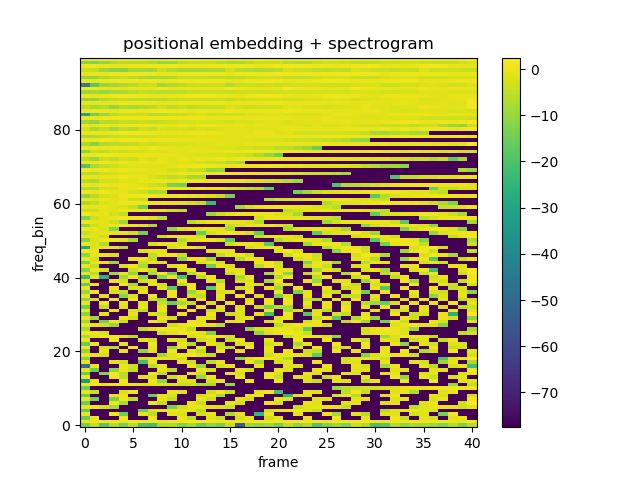
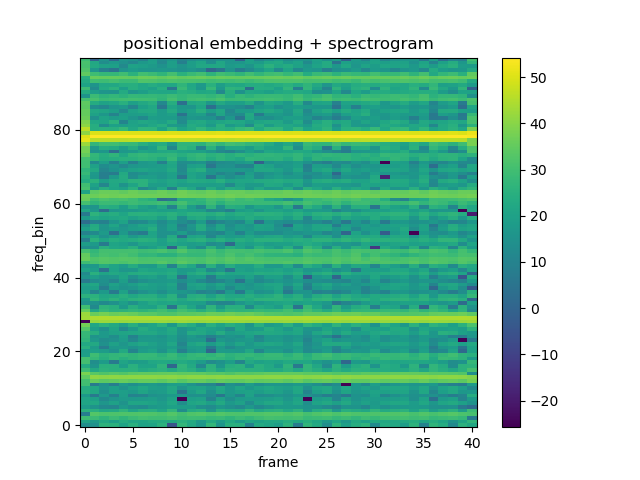
update

diff --git a/“audio_transformer_reconstruction”的副本.py b/“audio_transformer_reconstruction”的副本.py
@@ -10,32 +10,27 @@ Original file is located at
 # ! pip install git+https://github.com/openai/whisper.git
 # ! pip install jiwer
 
-from locale import normalize
-import os
-import numpy as np
-import torch.nn.functional as F
 try:
     import tensorflow  # required in Colab to avoid protobuf compatibility issues
 except ImportError:
     pass
 
-import torch
-import pandas as pd
-import whisper
-
-import torchaudio
-DEVICE = torch.device('cuda' if torch.cuda.is_available() else 'cpu')
-
-from tqdm.notebook import tqdm
-
-from operator import ne
-import torch
-import matplotlib.pyplot as plt
 import torchaudio
 import librosa
 import matplotlib.pyplot as plt
-import gc
 import math
+from dataclasses import dataclass
+from typing import Dict
+from typing import Iterable, Optional
+import numpy as np
+import torch
+import torch.nn.functional as F
+from torch import Tensor
+from torch import nn
+
+
+DEVICE = torch.device('cuda' if torch.cuda.is_available() else 'cpu')
+
 
 class SignalProducer:
     @staticmethod
@@ -143,7 +138,7 @@ class RandomGeneratedSignals(torch.utils.data.Dataset):
     def __getitem__(self, item):
         audio, spec, frequency_arr = self.dataset.get(item)
         audio = torch.mean(audio.view(-1, 10), axis=1)
-        spec = F.normalize(spec)
+        # spec = F.normalize(spec)
         
         return (spec, audio, frequency_arr)
 
@@ -157,33 +152,7 @@ fig.savefig('./signal_example.png')
 fig = Plot.plot_spectrogram(s[0])
 fig.savefig('./spectrogram_example.png')
 
-s[0].min()
 
-# def sinusoids(length, channels, max_timescale=10000, frequency_magnitude=1000 * 2 * torch.pi):
-#     """Returns sinusoids for positional embedding"""
-#     den = torch.exp(- torch.arange(0, channels, 2)* math.log(max_timescale) / channels)
-#     pos = torch.arange(0, length).reshape(length, 1)
-#     pos_embedding = torch.zeros((length, channels))
-#     pos_embedding[:, 0::2] = torch.sin(frequency_magnitude * pos * den)
-#     pos_embedding[:, 1::2] = torch.cos(frequency_magnitude * pos * den)
-#     # pos_embedding = pos_embedding.unsqueeze(-2)
-#     return pos_embedding
-
-# P = sinusoids(40, 100)
-# # P = getPositionEncoding(40, 100)
-# cax = plt.matshow(P)
-# plt.gcf().colorbar(cax)
-# plt.show()
-
-from dataclasses import dataclass
-from typing import Dict
-from typing import Iterable, Optional
-
-import numpy as np
-import torch
-import torch.nn.functional as F
-from torch import Tensor
-from torch import nn
 
 @dataclass
 class ModelDimensions:
@@ -217,14 +186,6 @@ class Conv1d(nn.Conv1d):
             x, weight.to(x.dtype), None if bias is None else bias.to(x.dtype)
         )
 
-# def sinusoids(length, channels, max_timescale=10, frequency_magnitude=1000 * 2 * torch.pi):
-#     """Returns sinusoids for positional embedding"""
-#     assert channels % 2 == 0
-#     log_timescale_increment = np.log(max_timescale) / (channels // 2 - 1)
-#     inv_timescales = torch.exp(-log_timescale_increment * torch.arange(channels // 2))
-#     scaled_time = torch.arange(length)[:, np.newaxis] * inv_timescales[np.newaxis, :]
-#     return torch.cat([torch.sin(frequency_magnitude * scaled_time), torch.cos(frequency_magnitude * scaled_time)], dim=1)
-
 def sinusoids(length, channels, max_timescale=10000, frequency_magnitude=1000 * 2 * torch.pi):
     """Returns sinusoids for positional embedding"""
     den = torch.exp(- torch.arange(0, channels, 2)* math.log(max_timescale) / channels)
@@ -239,16 +200,10 @@ max_timescale_list = [10000, 10000, 10000, 10000, 10000, 10000]
 A_list = [1, 10, 100, 200, 500, 1000]
 
 for A in np.array(A_list) * 2 * np.pi:
-    # fig, ax = plt.subplots()
     P = sinusoids(length=41, channels=100, max_timescale=10000, frequency_magnitude=A)
-    # cax = ax.matshow(P.T)
-    # plt.gcf().colorbar(cax)
     fig = Plot.plot_spectrogram(specgram=P.T, title='positional embedding')
     fig.savefig('./positional_embedding' + str(A) + '.png')
 
-    # fig.ax = plt.subplots()
-    # cax = ax.matshow(P.T + s[0])
-    # plt.gcf().colorbar(cax)
     fig = Plot.plot_spectrogram(specgram=P.T + s[0], title='positional embedding + spectrogram')
     fig.savefig('./positional_embedding_and_spectrogram' + str(A) + '.png')
 
@@ -399,21 +354,6 @@ class ReconstructionDecoder(nn.Module):
         # print("output", out.shape)
 
         return out
-    
-
-
-# class ReconstructionDecoder(nn.Module):
-#     def __init__(self, n_ctx: int, n_audio_ctx, n_audio_state: int):
-#         super().__init__()
-#         self.mlp = nn.Sequential(Linear(n_audio_ctx*n_audio_state, n_ctx),
-#                                         nn.GELU(),
-#                                         Linear(n_ctx, n_ctx),
-#                                         nn.GELU(),
-#                                         Linear(n_ctx, n_ctx))
-
-
-#     def forward(self, xa):
-#         return self.mlp(xa.view(xa.shape[0], -1))
 
 
 class Replicator(nn.Module):
@@ -442,13 +382,6 @@ class Replicator(nn.Module):
     def embed_audio(self, mel: torch.Tensor):
         return self.encoder(mel)
 
-    # def logits(self, tokens: torch.Tensor, audio_features: torch.Tensor):
-    #     return self.decoder(audio_features)
-
-    # def forward(self, mel: torch.Tensor, tokens: torch.Tensor) -> Dict[str, torch.Tensor]:
-    #     return self.decoder(self.encoder(mel))
-
-
     def logits(self, tokens: torch.Tensor, audio_features: torch.Tensor):
         return self.decoder(tokens, audio_features)
 
@@ -462,39 +395,6 @@ class Replicator(nn.Module):
 
 
 dims = ModelDimensions(100, 41, 100, 4, 4, 1, 400, 100, 4, 2)
-
-
-def train_epoch(model, optimizer, loss_fn, loader):
-    model.to(DEVICE)
-    model.train()
-    losses = 0
-    iters = 0
-    
-    for src, tgt, frequency_arr in loader:
-        src = src.to(DEVICE)
-        tgt = tgt.to(DEVICE)
-        frequency_arr = frequency_arr.to(DEVICE)
-        
-        tokens = torch.cat((torch.zeros((tgt.shape[0], 1)).to(DEVICE), tgt[:, :-1]), dim=1)
-        # tokens = tgt
-        outs = model(src, tokens)
-        outs = outs
-        # print(tokens.shape,  outs.shape, "___")
-        optimizer.zero_grad()
-
-        loss = loss_fn(tgt, outs)
-        loss.backward()
-
-        optimizer.step()
-        losses += loss.item()
-        iters += 1
-        # print(loss.item())
-        # print(outs.shape)
-        if iters%200 == 0:
-            print(loss.item())
-    # del src, tgt
-
-    return losses / iters
 
 def loss_fn(y_pred, target):
     loss = 2 * (y_pred - target).abs() / (y_pred.abs() + target.abs() + 1e-8)
@@ -614,26 +514,6 @@ plt.legend(loc="best")
 fig.savefig('./validation_loss.png')
 
 validation_dataloader = torch.utils.data.DataLoader(validation_dataset, batch_size=1, shuffle=True)
-
-# torch.cuda.memory_summary(device=torch.cuda.current_device(), abbreviated=False)
-# del dataset
-# del loader
-# del s
-# gc.collect()
-
-# def size_of_model(model):
-#   # print(model)
-#   param_size = 0
-#   for param in model.parameters():
-#       param_size += param.nelement() * param.element_size()
-#   buffer_size = 0
-#   for buffer in model.buffers():
-#       buffer_size += buffer.nelement() * buffer.element_size()
-
-#   size_all_mb = (param_size + buffer_size) / 1024**2
-#   print('model size: {:.3f}MB'.format(size_all_mb))
-
-# size_of_model(model=model_dictionary[0]["model"])
 
 for key in model_dictionary.keys():
   model_dictionary[key]["fixed_frequency_in_validation"] = []
